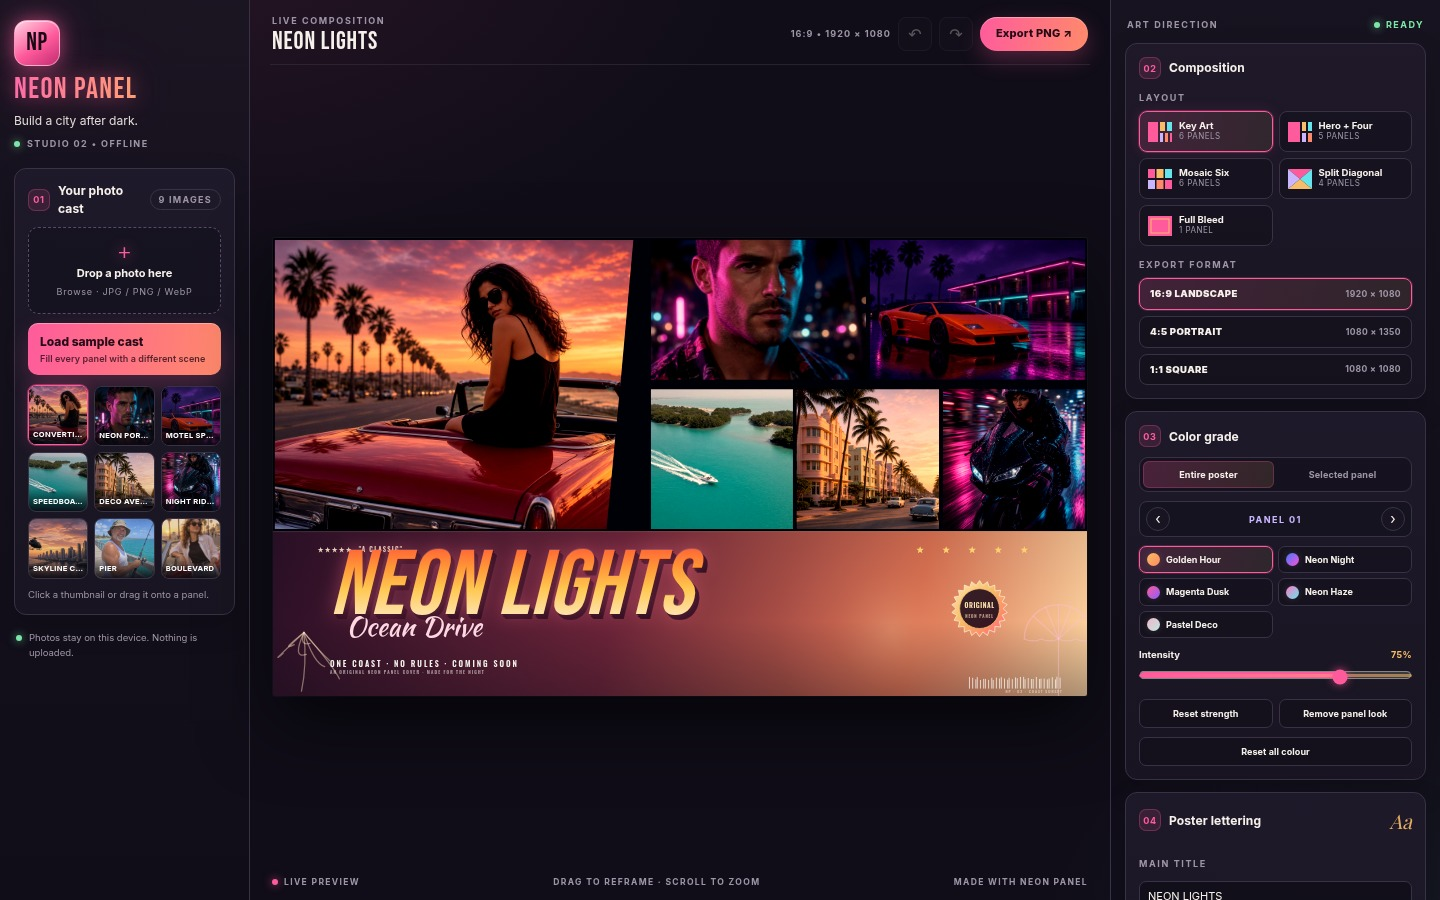
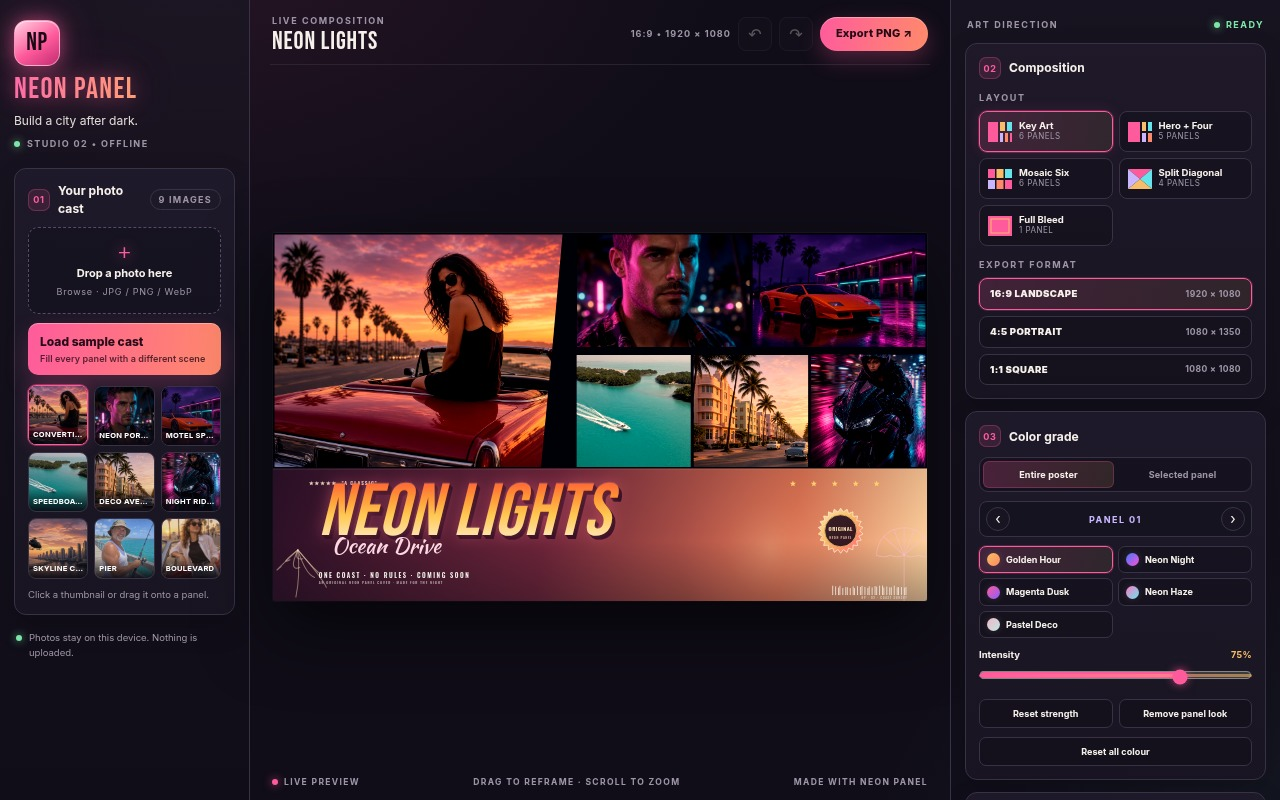
Screenshots within make.fun size rules

diff --git a/README.md b/README.md
@@ -26,6 +26,8 @@ Neon Panel is an offline, static cover-art poster studio. It builds a multi-pane
 ![Neon Panel portrait cover](screenshots/3-cover.jpg)
 ![Neon Panel mobile](screenshots/4-mobile.jpg)
 
+Screenshot outputs are regenerated from `shots.json` via `npm run shots`: PNG/JPEG files must be <= 250 KB, long side <= 1280 px, short side >= 480 px.
+
 ## Run
 
 Serve the static app:
